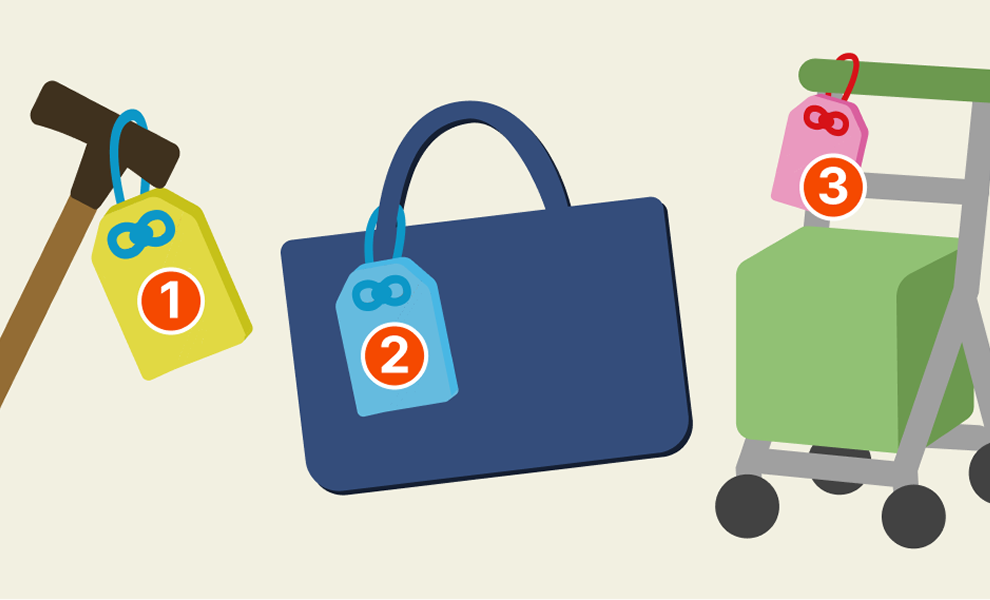
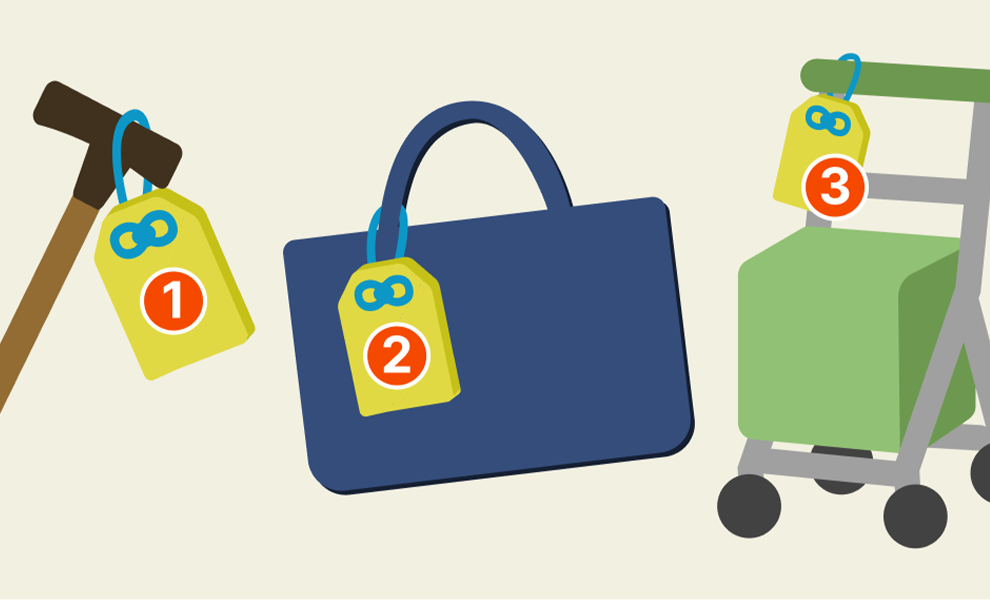
fix: POINT03の画像を差し替え、ステージングのHTMLをキャッシュさせない
- POINT03 の画像（section04-content-05.png）を差し替え
  src/assets 配下なので Astro が内容ハッシュ付きのファイル名を出力する。
  中身が変わればURLも変わるため、この画像にキャッシュは残らない
- worker.ts: HTML のレスポンスに Cache-Control: no-store を付与
  確認用のステージングでデプロイ直後にエッジの古いHTMLが返る現象への対処。
  ハッシュ付きの静的アセットはそのままキャッシュさせる
  worker.ts はステージング専用のため納品ファイルには影響しない

diff --git a/worker.ts b/worker.ts
@@ -35,7 +35,21 @@ export default {
     }
 
     const rewrittenUrl = new URL(assetPath + url.search, url.origin);
-    return env.ASSETS.fetch(new Request(rewrittenUrl.toString(), request));
+    const res = await env.ASSETS.fetch(new Request(rewrittenUrl.toString(), request));
+
+    // 確認用のステージングなので HTML はキャッシュさせない。
+    // ここを通さないとデプロイ直後にエッジの古い HTML が返ることがある。
+    // 画像・CSS・JS は Astro がファイル名に内容ハッシュを付けるため、そのままキャッシュさせてよい。
+    const contentType = res.headers.get('Content-Type') ?? '';
+    if (contentType.includes('text/html')) {
+      const headers = new Headers(res.headers);
+      headers.set('Cache-Control', 'no-store, must-revalidate');
+      headers.set('Pragma', 'no-cache');
+      headers.set('Expires', '0');
+      return new Response(res.body, { status: res.status, statusText: res.statusText, headers });
+    }
+
+    return res;
   },
 } satisfies ExportedHandler<Env>;
 
